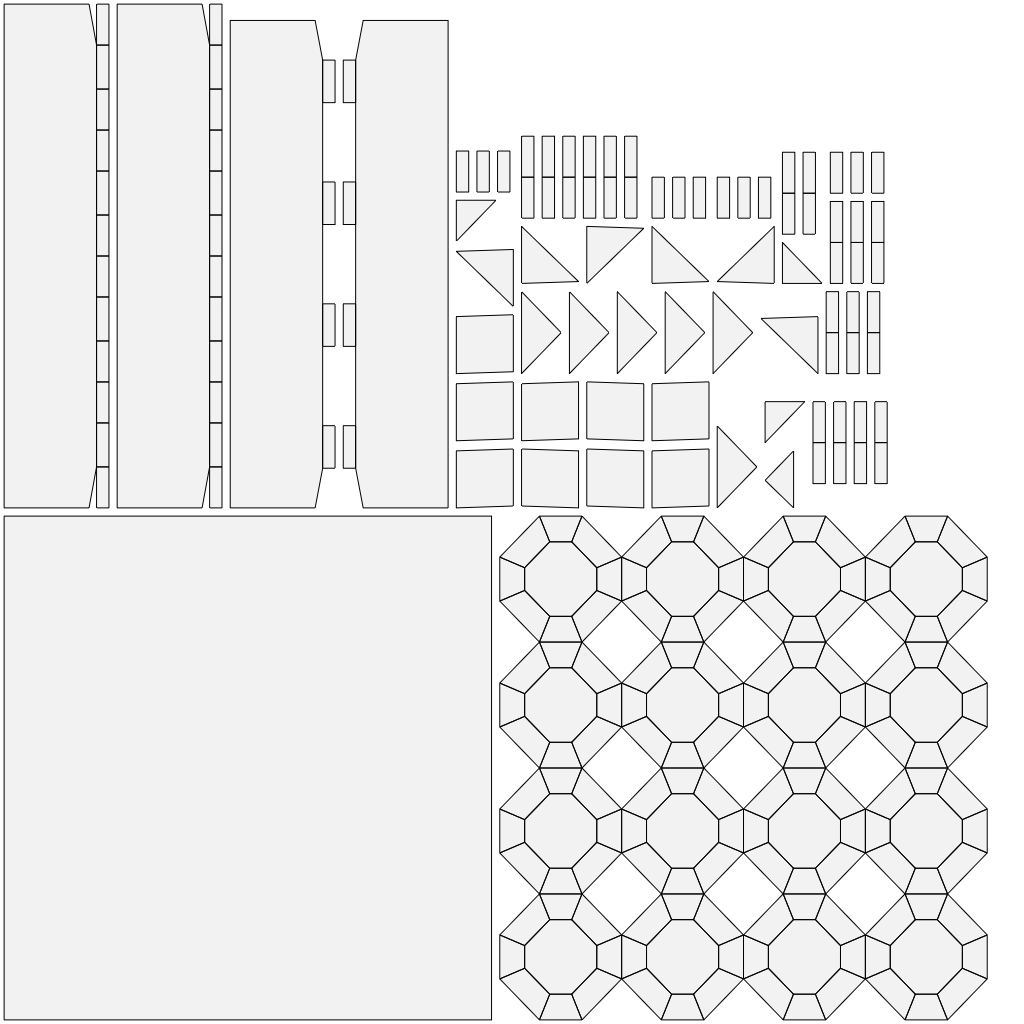
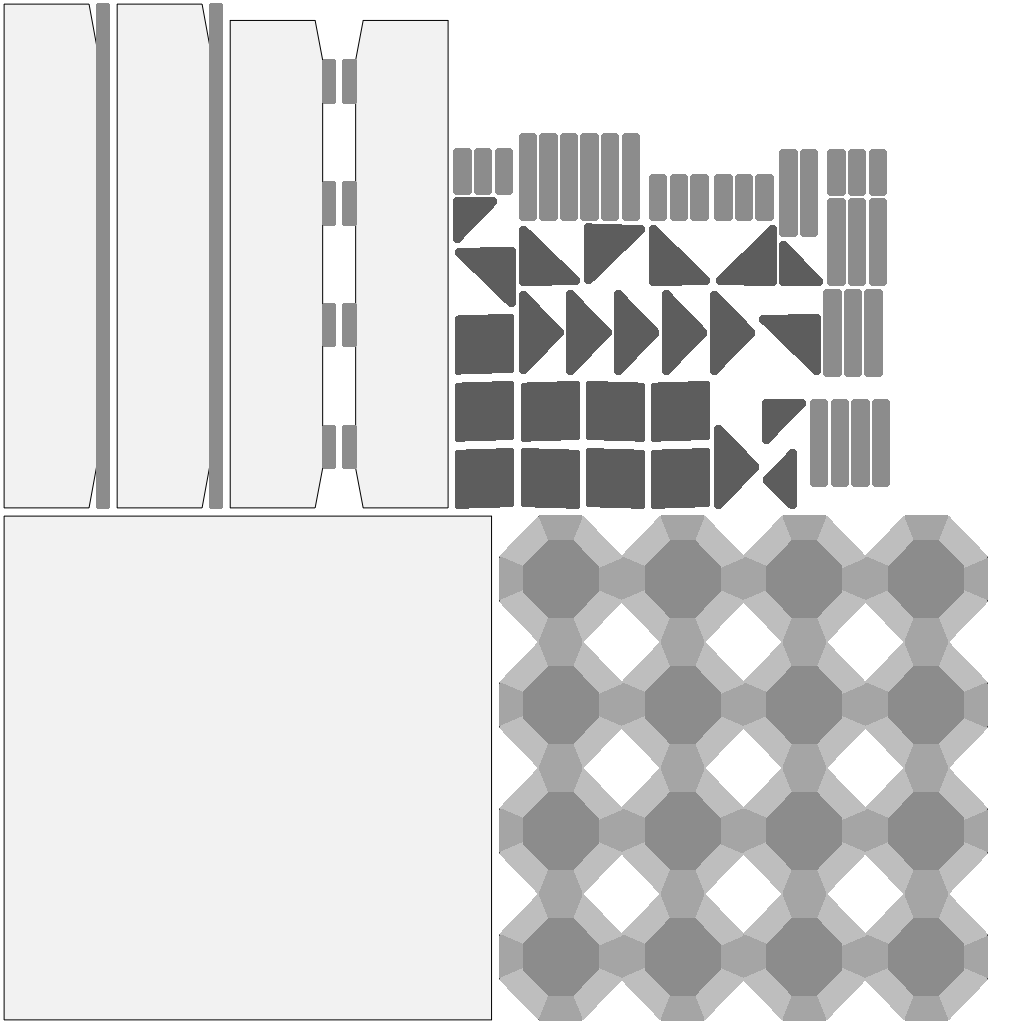
did texturing for the floor tile and removed the directional Light for now

diff --git a/core/src/main/java/io/github/Qwerybomb/GDX/mainGame.java b/core/src/main/java/io/github/Qwerybomb/GDX/mainGame.java
@@ -45,8 +45,8 @@ public class mainGame extends ScreenAdapter implements gameUtils {
 
         // set up the enviornment and lighting
         environment = new Environment();
-        environment.set(new ColorAttribute(ColorAttribute.AmbientLight, 0.2f, 0.2f, 0.2f, 0.2f));
-        environment.add(new DirectionalLight().set(1f, 1f, 1f, 1f, -0.8f, -0.8f));
+        environment.set(new ColorAttribute(ColorAttribute.AmbientLight, 0.5f, 0.5f, 0.5f, 1f));
+//        environment.add(new DirectionalLight().set(1f, 1f, 1f, 1f, -0.8f, -0.8f));
 
         // create the spawn zone
         makeCathedral(0,0,0);
